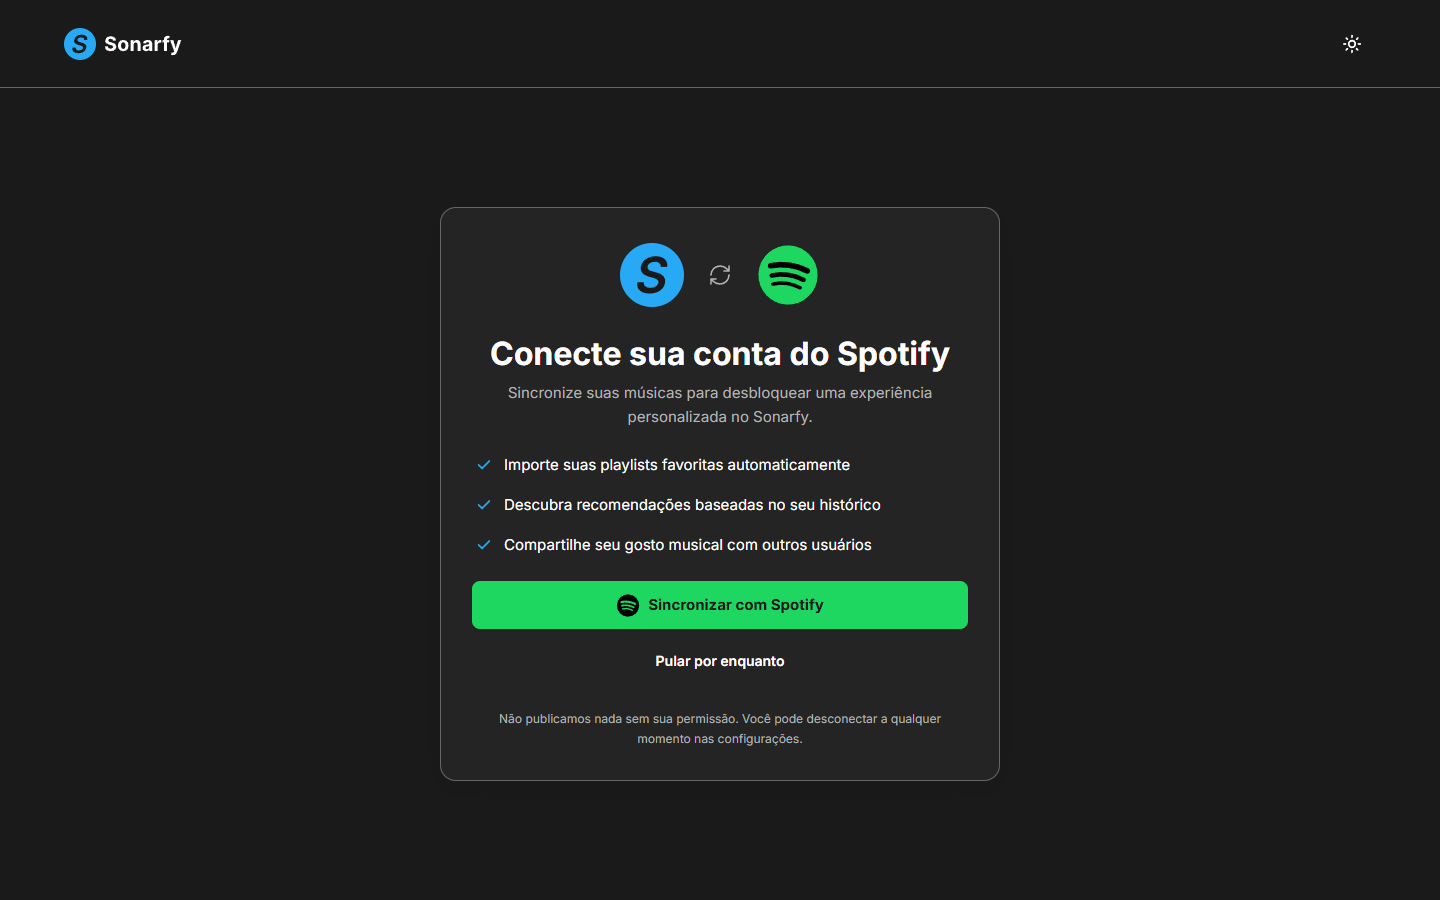
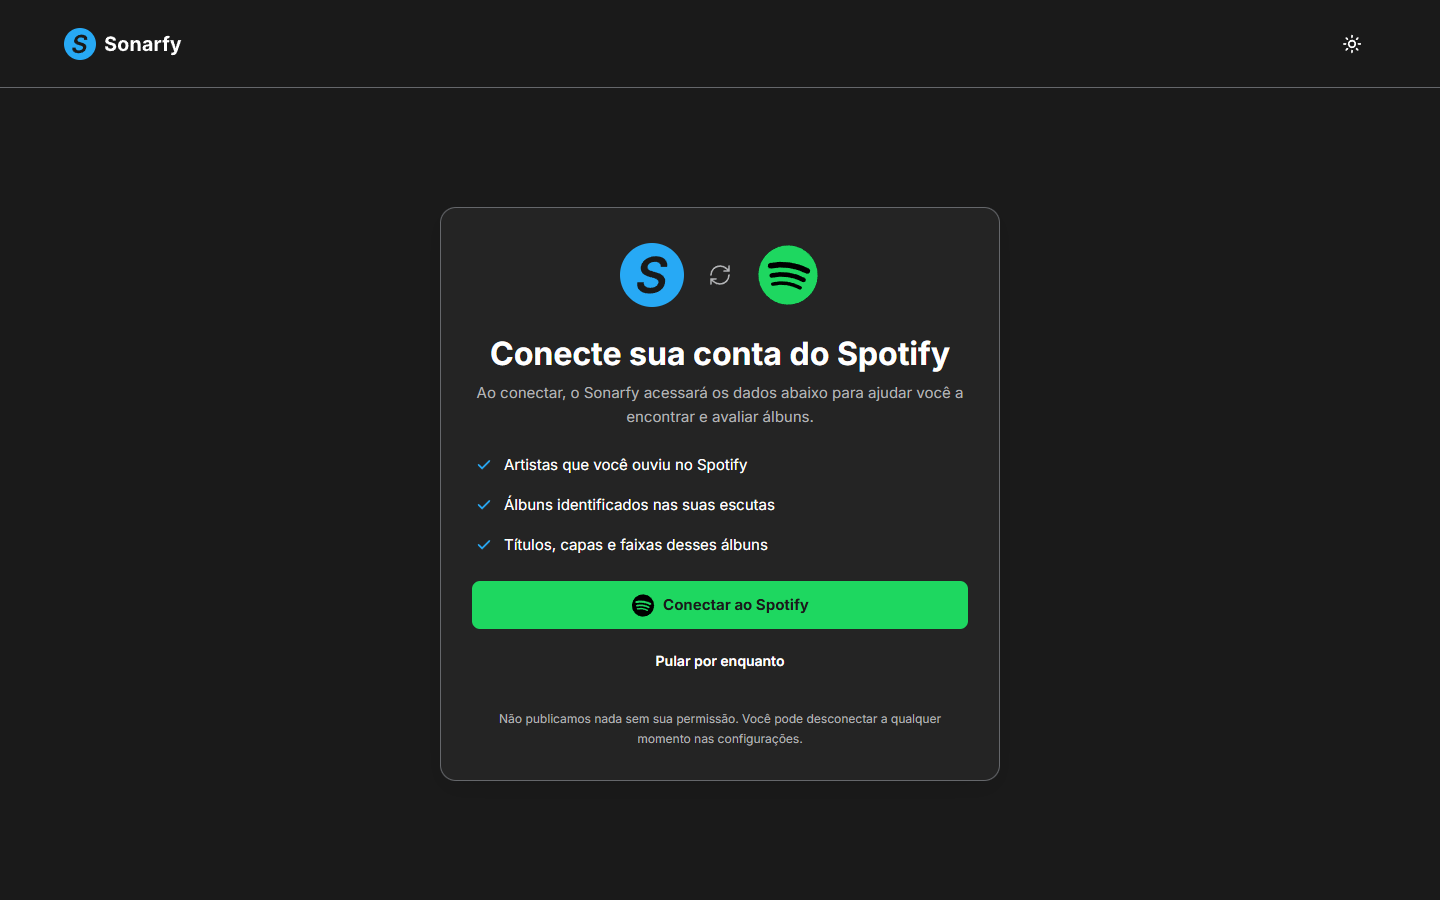
fix(spotify): align connection copy and screenshots with Figma

Changed region(s): [[0.3438, 0.4978, 0.5938, 0.6222], [0.3438, 0.4044, 0.6562, 0.4667], [0.4062, 0.6533, 0.5625, 0.6844]]

diff --git a/pages/spotify-sync.html b/pages/spotify-sync.html
@@ -39,15 +39,15 @@
             </div>
             <div class="spotify-introduction">
                 <h1 id="spotify-title">Conecte sua conta do Spotify</h1>
-                <p id="spotify-description">Sincronize suas músicas para desbloquear uma experiência personalizada no Sonarfy.</p>
+                <p id="spotify-description">Ao conectar, o Sonarfy acessará os dados abaixo para ajudar você a encontrar e avaliar álbuns.</p>
             </div>
             <ul class="spotify-benefits">
-                <li><span class="spotify-check"><img class="ui-icon" src="../assets/icons/spotify-sync/check.svg" alt=""></span><span>Importe suas playlists favoritas automaticamente</span></li>
-                <li><span class="spotify-check"><img class="ui-icon" src="../assets/icons/spotify-sync/check.svg" alt=""></span><span>Descubra recomendações baseadas no seu histórico</span></li>
-                <li><span class="spotify-check"><img class="ui-icon" src="../assets/icons/spotify-sync/check.svg" alt=""></span><span>Compartilhe seu gosto musical com outros usuários</span></li>
+                <li><span class="spotify-check"><img class="ui-icon" src="../assets/icons/spotify-sync/check.svg" alt=""></span><span>Artistas que você ouviu no Spotify</span></li>
+                <li><span class="spotify-check"><img class="ui-icon" src="../assets/icons/spotify-sync/check.svg" alt=""></span><span>Álbuns identificados nas suas escutas</span></li>
+                <li><span class="spotify-check"><img class="ui-icon" src="../assets/icons/spotify-sync/check.svg" alt=""></span><span>Títulos, capas e faixas desses álbuns</span></li>
             </ul>
             <div class="spotify-actions">
-                <button id="spotify-connect" class="spotify-button" type="button"><img class="ui-icon" src="../assets/icons/spotify-sync/spotify-button.svg" alt=""><span>Sincronizar com Spotify</span></button>
+                <button id="spotify-connect" class="spotify-button" type="button"><img class="ui-icon" src="../assets/icons/spotify-sync/spotify-button.svg" alt=""><span>Conectar ao Spotify</span></button>
                 <button id="spotify-skip" class="spotify-button spotify-skip" type="button">Pular por enquanto</button>
             </div>
             <p id="spotify-error" class="spotify-error" role="alert" hidden></p>

diff --git a/js/spotify-sync.js b/js/spotify-sync.js
@@ -45,7 +45,7 @@ export function initSpotifySync({
         } finally {
             connect.disabled = false;
             skip.disabled = false;
-            label.textContent = 'Sincronizar com Spotify';
+            label.textContent = 'Conectar ao Spotify';
             card.removeAttribute('aria-busy');
         }
     });

diff --git a/README.md b/README.md
@@ -42,11 +42,11 @@ Os fluxos de conta dependem da API. Avaliações, resenhas e recursos sociais fa
 
 ## Conecte suas músicas ao Sonarfy
 
-A tela de conexão com o Spotify apresenta a proposta de importar playlists, descobrir recomendações baseadas no histórico e compartilhar seu gosto musical. Você pode escolher **Sincronizar com Spotify** ou **Pular por enquanto**.
+A tela de conexão com o Spotify explica quais dados serão acessados para ajudar você a encontrar e avaliar álbuns: artistas que você ouviu no Spotify, álbuns identificados nas suas escutas e títulos, capas e faixas desses álbuns. Você pode escolher **Conectar ao Spotify** ou **Pular por enquanto**.
 
 | Desktop · tema escuro | Mobile · tema claro |
 | :---: | :---: |
-| <a href="docs/screenshots/spotify-sync-desktop.png"><img src="docs/screenshots/spotify-sync-desktop.png" width="900" alt="Tela de conexão com o Spotify no desktop em tema escuro, com logos conectados, benefícios e ações de sincronizar ou pular"></a> | <a href="docs/screenshots/spotify-sync-mobile.png"><img src="docs/screenshots/spotify-sync-mobile.png" width="300" alt="Tela de conexão com o Spotify no celular em tema claro, com benefícios, botão de sincronização e aviso de privacidade"></a> |
+| <a href="docs/screenshots/spotify-sync-desktop.png"><img src="docs/screenshots/spotify-sync-desktop.png" width="900" alt="Tela de conexão com o Spotify no desktop em tema escuro, com dados que serão acessados e ações de conectar ou pular"></a> | <a href="docs/screenshots/spotify-sync-mobile.png"><img src="docs/screenshots/spotify-sync-mobile.png" width="300" alt="Tela de conexão com o Spotify no celular em tema claro, com dados que serão acessados, botão de conexão e aviso de privacidade"></a> |
 
 *Capturas reais da interface: desktop em 1440 × 900 e mobile em 390 × 900. Clique nas imagens para ampliar.*
 

diff --git a/docs/figma-references.md b/docs/figma-references.md
@@ -266,13 +266,13 @@ O gráfico de integração tem altura de 72px e gaps de 24px entre símbolos.
 As dimensões intrínsecas dos SVGs são preservadas. Marca do cabeçalho,
 ícones de tema e retorno reutilizam os assets compartilhados do projeto.
 
-A implementação usa a cópia definida para o produto: título “Conecte sua
-conta do Spotify”, descrição “Sincronize suas músicas para desbloquear uma
-experiência personalizada no Sonarfy.” e CTA “Sincronizar com Spotify”.
-Os benefícios são importar playlists, descobrir recomendações com base no
-histórico e compartilhar o gosto musical. Esses textos diferem dos frames;
-as quebras naturais no mobile produzem um card de aproximadamente 703px
-de altura, sem recorte. No desktop, a altura é de aproximadamente 574px.
+A implementação acompanha a cópia dos quatro frames: título “Conecte sua
+conta do Spotify”, descrição “Ao conectar, o Sonarfy acessará os dados abaixo
+para ajudar você a encontrar e avaliar álbuns.” e CTA “Conectar ao Spotify”.
+A lista informa os dados acessados: “Artistas que você ouviu no Spotify”,
+“Álbuns identificados nas suas escutas” e “Títulos, capas e faixas desses álbuns”.
+O card tem aproximadamente 632px de altura no mobile e 574px no desktop,
+com crescimento natural quando necessário.
 
 ### Comportamento e verificação
 
